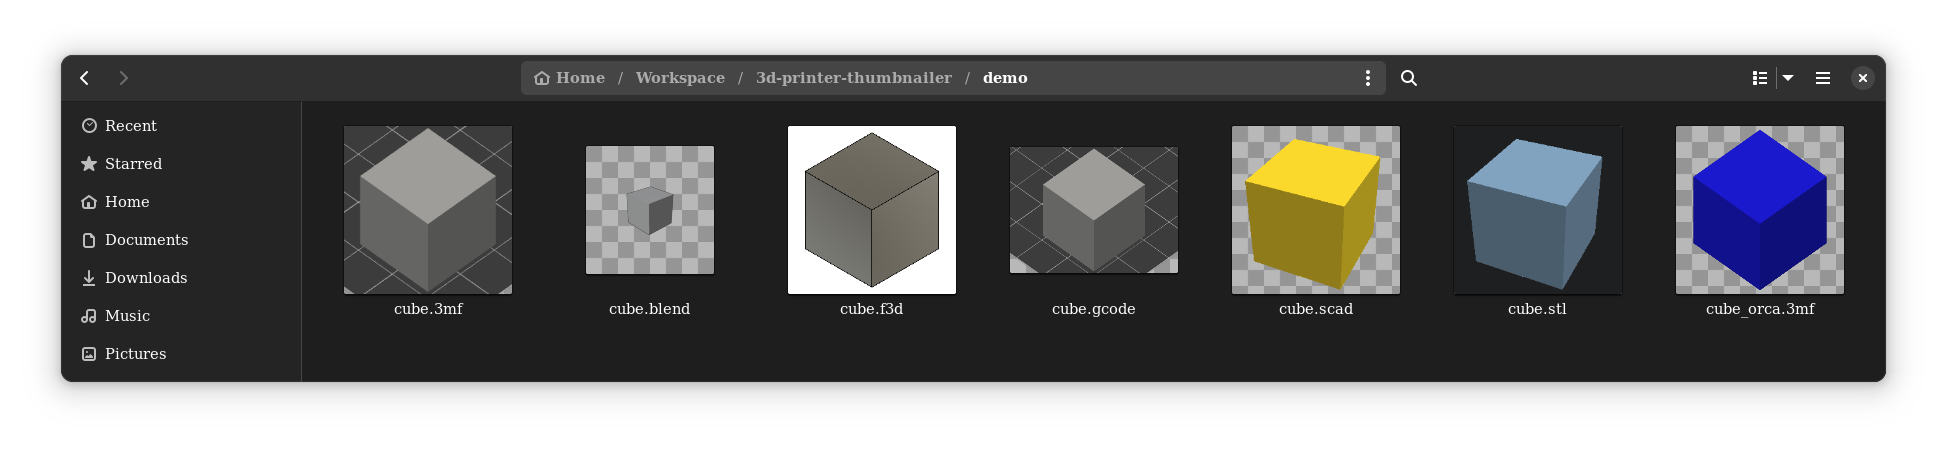
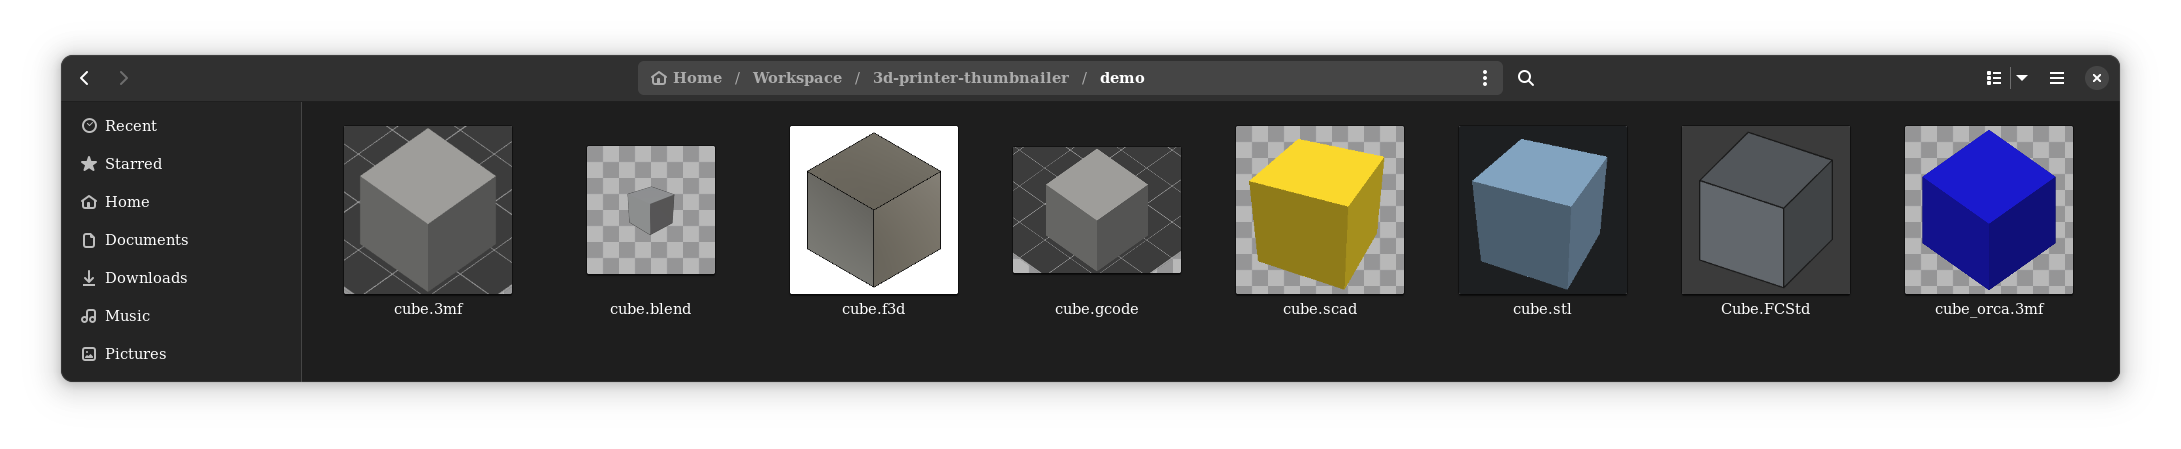
Add FreeCAD support and local installation options
- Implemented FreeCAD thumbnailer with associated XML and thumbnailer files.
- Enhanced installation process with local install and uninstall options.
- Updated README for new file types and installation instructions.
- Bumped version in getdeb.sh to 1.2.0.

diff --git a/README.md b/README.md
@@ -13,15 +13,16 @@ In short, these will render pretty little file previews in your file manager (no
 * `.scad` (OpenSCAD, will blindly render the default object)
 * `.stl` (Actually uses OpenSCAD to render as well)
 * `.blend` (uses the built-in `blender-thumbnailer` that comes with Blender)
-*. `.f3d` (Autodesk Fusion)
+* `.f3d` (Autodesk Fusion)
+* `.FCStd` (FreeCAD)
 
 ## Installation
 
 ### Manual
 
-* put `.thumbnailer` files in `/usr/share/thumbnailers` or local `~/.local/share/thumbnailers`
-* put the other files in `/usr/bin` or local `~/.local/bin`, marked as executable
-* put `fusion.xml` file in `/usr/share/mime/packages` or local `~/.local/share/mime/packages`
+* put `thumbnailers/*.thumbnailer` files in `/usr/share/thumbnailers` or local `~/.local/share/thumbnailers`
+* put the `bin` files in `/usr/bin` or local `~/.local/bin`, marked as executable
+* put `mime/packages/fusion.xml` and `mime/packages/org.freecad.FreeCAD.xml` file in `/usr/share/mime/packages` or local `~/.local/share/mime/packages`
 * run `update-mime-database /usr/share/mime` or if local `update-mime-database ~/.local/share/mime`
 * remove all the cached thumbnails in `~/.cache/thumbnails`
 * restart Nautilus with `nautilus -q`
@@ -36,7 +37,7 @@ or get the `3d-printer-thumbnailer_*.deb` file from the release and install it.
 
 ## Dependencies
 
-* `3mf.thumbnailer`, `gcode.thumbnailer` and `fusion.thumbnailer` require nothing but Python 3. They load the thumbnail included in the file.
+* `3mf.thumbnailer`, `gcode.thumbnailer`, `fusion.thumbnailer` and `FreeCAD.thumbnailer` require nothing but Python 3. They load the thumbnail included in the file.
 * `stlscad.thumbnailer` requires `Xvfb`, `openscad` and `ImageMagick` installed to render and convert files.
 * `blender.thumbnailer` requires Blender to be installed.
 
